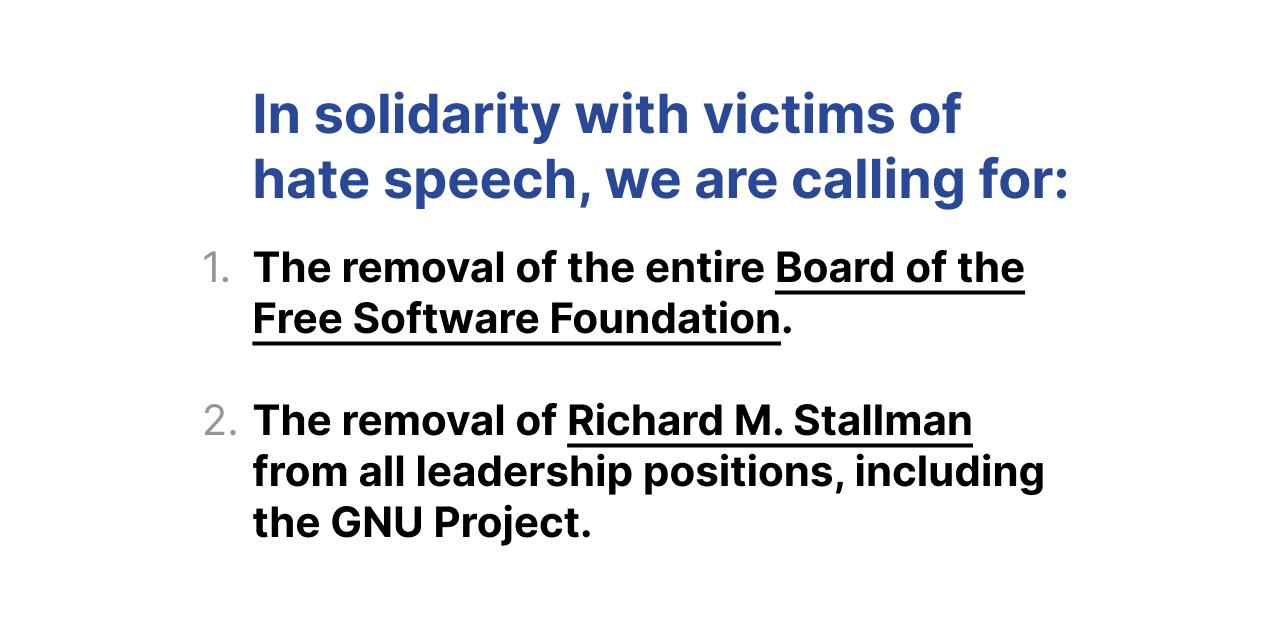
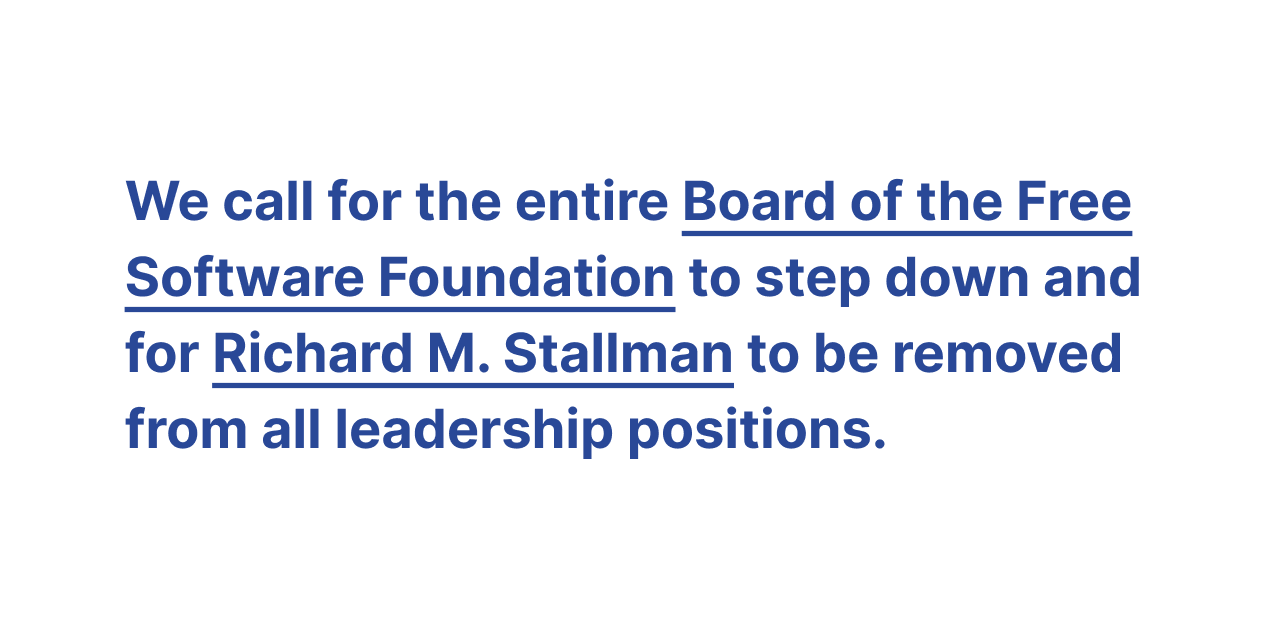
Second iteration of metadata and OG image

Changed region(s): [[0.0938, 0.1513, 0.9062, 0.8774]]

diff --git a/index.md b/index.md
@@ -1,5 +1,5 @@
 ---
-title: Petition to remove the Board of the Free Software Foundation and Richard M. Stallman from the GNU Project
+title: An open letter to remove Richard M. Stallman from all leadership positions
 description: We, the undersigned, are calling for the removal of the entire Board of the Free Software Foundation, for its support of toxic and abusive behavior by Richard M. Stallman.
 image: /assets/og-image.png
 twitter:
